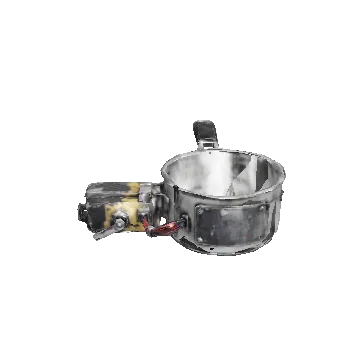
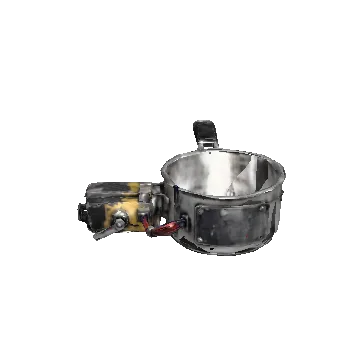
反打 lights 冲 after a 完美; brighter 做好了 and 角色库 3D
- sim: control() reports counterIn (read-only, how long a 冲 pressed now still meets countering()); COUNTER_CUE_LIT .7.
  No numbers, steps or replays change.
- 冲 lights up and reads 「反打」 while counterIn >= COUNTER_CUE_LIT, all three stages and both sides of 一机双人.
  test/position-combat/counter-cue.test.mjs: pressed at the first and last lit step it lands as the counter; added to CI.
- Turntables: lighter hemisphere plus a soft front light, drawn with Neutral tone mapping so colours stay those of the
  picture; 做好了 3D pane on a light grey; stills regenerated. Battle lighting untouched.

Changed region(s): [[0.2139, 0.3361, 0.7944, 0.7333]]

diff --git a/web/src/main.js b/web/src/main.js
@@ -1,6 +1,6 @@
 import * as THREE from 'three';
 import {loadCatalog, registerItems} from '../../sim/index.js';
-import {simulateV3, createV3Match, loadV3Rules, mountExtents, openingDistance, warmEngine, POSITION_COMBAT_RULES, PLANAR_JUDGE_COMBAT_OPTIONS, MATERIAL_JUDGE_COMBAT_OPTIONS, PVP_COMBAT_OPTIONS} from '../../sim/v3.js';
+import {simulateV3, createV3Match, loadV3Rules, mountExtents, openingDistance, warmEngine, POSITION_COMBAT_RULES, PLANAR_JUDGE_COMBAT_OPTIONS, MATERIAL_JUDGE_COMBAT_OPTIONS, PVP_COMBAT_OPTIONS, COUNTER_CUE_LIT} from '../../sim/v3.js';
 import ladderJson from '../../data/foes.json';
 import {loadModels, prefetchModels, pictureUrl, stillUrl, outlinePath, itemThumbnail} from './models.js';
 import {LiveTurns} from './livecards.js';
@@ -1875,6 +1875,7 @@ async function main() {
   function replay_(btn, cls) { btn.classList.remove(cls); void btn.offsetWidth; btn.classList.add(cls); }
   for (const [side, pad] of pads.entries()) for (const [btn, action] of [[pad.dash, 'dash'], [pad.block, 'block']]) {
     btn.left = btn.querySelector('.left');
+    btn.word = btn.querySelector('span');
     // Real press state on touchdown: the button goes down and lights up until the finger lifts. Each button keeps its own
     // fingers by pointerId (一机双人: four thumbs at once), so one lifting never lets go of another's press.
     const fingers = new Set();
@@ -1975,6 +1976,12 @@ async function main() {
       // Back from cooling: one pop so the thumb knows without looking twice.
       if (state === 'ready' && (btn.dataset.state === 'cooling' || btn.dataset.state === 'locked')) replay_(btn, 'pop');
       btn.dataset.state = state;
+    }
+    // 反打 (Elara b32bfd9a ①): 冲 lights up and says so while a 冲 pressed now lands as the counter.
+    const counter = !live.done && (c.counterIn ?? 0) + 1e-9 >= COUNTER_CUE_LIT && c.dashIn <= rules.dt + 1e-9 && !c.charging && !c.dashing && !(c.stunIn > 0);
+    if (pad.dash.classList.contains('counter') !== counter) {
+      pad.dash.classList.toggle('counter', counter);
+      pad.dash.word.textContent = counter ? '反打' : '冲';
     }
   }
   // 一机双人's bench: 1P's 下一步 hands it to 2P, whose 开打 starts the match.
@@ -2131,7 +2138,7 @@ async function main() {
     cam: CAM,
     start,
     music: () => sfx._music(),
-    events: () => replay?.events.filter(e => e.type !== 'contact' && e.type !== 'recoil').map(e => ({t: e.t, type: e.type, role: e.role, target: e.target, targetPart: e.targetPart, damage: e.damage, side: e.side, phase: e.phase, outcome: e.outcome})) ?? []
+    events: () => replay?.events.filter(e => e.type !== 'contact' && e.type !== 'recoil').map(e => ({t: e.t, type: e.type, role: e.role, attacker: e.attacker, dash: e.dash, target: e.target, targetPart: e.targetPart, damage: e.damage, side: e.side, phase: e.phase, outcome: e.outcome})) ?? []
   };
 
   // ---------- loop ----------

diff --git a/web/src/livecards.js b/web/src/livecards.js
@@ -20,6 +20,14 @@ const TURN = 6; // seconds per turn, as the strips had
 const angle = (rig, turns) => rig.swing ? rig.swing * Math.cos(turns * Math.PI * 2) : turns * Math.PI * 2;
 const FADE = 0.4; // seconds the model takes to fade in over its still (style.css); it holds the still's angle meanwhile
 const reduced = matchMedia('(prefers-reduced-motion: reduce)');
+// The turntables' tone mapping: Khronos PBR Neutral keeps a model's hues and brightness where the stage's ACES greys and
+// darkens them (Elara b32bfd9a ③). Set only while one is drawn; the stage keeps its own.
+const TURN_TONE = {toneMapping: THREE.NeutralToneMapping, toneMappingExposure: 0.85};
+function turnTone(r) {
+  const was = {toneMapping: r.toneMapping, toneMappingExposure: r.toneMappingExposure};
+  Object.assign(r, TURN_TONE);
+  return () => Object.assign(r, was);
+}
 
 export class LiveTurns {
   constructor(renderer, environment) {
@@ -74,7 +82,8 @@ export class LiveTurns {
       ctx.drawImage(gl, 0, gl.height - size, size, size, 0, 0, size, size);
       return ctx.getImageData(0, 0, size, size);
     };
-    const black = over(0x000000), white = over(0xffffff).data, d = black.data;
+    const untone = turnTone(r), black = over(0x000000), white = over(0xffffff).data, d = black.data;
+    untone();
     r.setViewport(saved.viewport);
     r.setScissor(saved.scissor);
     r.setScissorTest(saved.scissorTest);
@@ -105,7 +114,7 @@ export class LiveTurns {
       if (!size) continue;
       // Both sides: a fresh canvas is 300×150, so a 150 px card at 2× would keep its height (crops the model).
       if (v.canvas.width !== size || v.canvas.height !== size) v.canvas.width = v.canvas.height = size;
-      saved ??= {target: r.getRenderTarget(), viewport: r.getViewport(new THREE.Vector4()), scissor: r.getScissor(new THREE.Vector4()), scissorTest: r.getScissorTest(), color: r.getClearColor(new THREE.Color()), alpha: r.getClearAlpha()};
+      saved ??= {target: r.getRenderTarget(), viewport: r.getViewport(new THREE.Vector4()), scissor: r.getScissor(new THREE.Vector4()), scissorTest: r.getScissorTest(), color: r.getClearColor(new THREE.Color()), alpha: r.getClearAlpha(), untone: turnTone(r)};
       r.setRenderTarget(null);
       r.setViewport(0, 0, size / pr, size / pr);
       r.setScissor(0, 0, size / pr, size / pr);
@@ -127,6 +136,7 @@ export class LiveTurns {
     r.setScissor(saved.scissor);
     r.setScissorTest(saved.scissorTest);
     r.setClearColor(saved.color, saved.alpha);
+    saved.untone();
   }
 }
 

diff --git a/sim/v3.js b/sim/v3.js
@@ -103,6 +103,11 @@ export const PVP_COMBAT_OPTIONS=Object.freeze({
  ...ROUND_JUDGE_COMBAT_OPTIONS,
  combatRules:Object.freeze({...ROUND_JUDGE_COMBAT_OPTIONS.combatRules,pvp:Object.freeze({charge:.22,pace:1.5})})
 });
+// 反打 (Elara b32bfd9a ①): the 冲 button lights as 「反打」 while control().counterIn is at least this (s). The counter
+// window runs the whole stun (guardStun, 1 s), but the foe flies on all that time: in 6,080 scripted tries after a 完美 on
+// the three stages and in 一机双人, no 冲 pressed with under 0.65 s left reached it in time. The 0.05 over that is for the
+// frame between the light and the tap. Lit, it lands as the counter (test/position-combat/counter-cue.test.mjs).
+export const COUNTER_CUE_LIT=.7;
 export const MATERIAL_JUDGE_COMBAT_OPTIONS=Object.freeze({
  ...ROUND_JUDGE_COMBAT_OPTIONS,
  combatRules:Object.freeze({...ROUND_JUDGE_COMBAT_OPTIONS.combatRules,
@@ -1058,7 +1063,9 @@ export async function createV3Match({fighters:definitions,mode='A',seed,manual=n
   /** Queue a press for an 'input' side; it is taken at the start of the next step (or ignored on cooldown). */
   press(side,action){if(!M||manual.sides[side]!=='input'||!ACTIONS.includes(action))throw Error('press needs a manual input side and dash | block');if(!done)queued[side].push(action);},
   /** Button state for a side: seconds until ready, and what it is doing now. */
-  control(side){const k=fs[side].ctl,f=fs[side];return {dashIn:Math.max(0,Math.max(k.dashReady,k.dashLockedUntil)-step)*r.dt,blockIn:Math.max(0,k.blockReady-step)*r.dt,charging:charging(f),dashing:dashing(f),shield:shielded(f),...(impact&&{stunIn:Math.max(0,k.stunUntil-step+1)*r.dt,dashLockIn:Math.max(0,k.dashLockedUntil-step)*r.dt})};},
+  control(side){const k=fs[side].ctl,f=fs[side];return {dashIn:Math.max(0,Math.max(k.dashReady,k.dashLockedUntil)-step)*r.dt,blockIn:Math.max(0,k.blockReady-step)*r.dt,charging:charging(f),dashing:dashing(f),shield:shielded(f),...(impact&&{stunIn:Math.max(0,k.stunUntil-step+1)*r.dt,dashLockIn:Math.max(0,k.dashLockedUntil-step)*r.dt}),
+   // How long a 冲 pressed now (taken next step) still meets countering(): the foe stunned by our 完美 and the window open.
+   ...(round&&{counterIn:Math.max(0,Math.min(k.counterUntilRound??-Infinity,fs[1-side].ctl.stunUntil)-step)*r.dt})};},
   advance,
   result(){if(!done)throw Error('match not finished');return result;},
   /** Abandon a match before its end (frees the physics world). */

diff --git a/web/src/models.js b/web/src/models.js
@@ -187,10 +187,15 @@ export function turnRig(itemId, environment, zoom = 1) {
   if (!src) return null;
   const scene = new THREE.Scene();
   scene.environment = environment ?? null;
-  scene.add(new THREE.HemisphereLight(0xdfe8ff, 0x20242e, 1.6));
-  const keyLight = new THREE.DirectionalLight(0xffffff, 2.2);
+  // Lit brighter than the stage (Elara b32bfd9a ③: dark and dirty beside the styled picture it fades in over): a
+  // lighter sky and ground, and a soft light from the camera's side so the front the card shows is never in shade.
+  // livecards.js draws it with TURN_TONE, not the stage's ACES, so its colours stay those of the picture.
+  scene.add(new THREE.HemisphereLight(0xf4f6ff, 0x5d5a55, 1.5));
+  const keyLight = new THREE.DirectionalLight(0xffffff, 2.0);
   keyLight.position.set(2, 3, 2.5);
-  scene.add(keyLight);
+  const frontLight = new THREE.DirectionalLight(0xfff7ee, 1.3);
+  frontLight.position.set(-0.4, 0.5, 1);
+  scene.add(keyLight, frontLight);
   const obj = src.clone(true), spin = new THREE.Group(), {pose, yaw, swing} = poses.get(itemId);
   obj.applyMatrix4(pose);
   spin.add(obj);

diff --git a/web/src/terminal.css b/web/src/terminal.css
@@ -410,6 +410,9 @@ button:focus-visible,summary:focus-visible { outline:2px solid var(--c1);outline
 /* 老龟's hint in two lines, 它专防先冲 over what to do, so it is never wider than the phone (Castor 9329c4e0). */
 #fx .hilite.nudge.two { flex-direction:column;align-items:center;gap:0;white-space:pre-line;text-align:center;line-height:1.35;padding:4px 12px 5px; }
 :is(#pad,#pad2) .pad.dash.nudge:not(.deny):not(.pop):not(.down) { animation:padNudge .8s ease-in-out infinite; }
+/* 反打 (Elara b32bfd9a ①): lit for about a third of a second, so all at once, no fade: brighter, a size up, a white-gold
+   edge and glow. */
+:is(#pad,#pad2) .pad.dash.counter:not(.deny):not(.down) { z-index:1; transform:scale(1.08); filter:brightness(1.3) saturate(1.2) drop-shadow(0 0 14px #ffe9a8); outline:3px solid #fff4cf; outline-offset:1px; }
 @keyframes padNudge { 0%,100% { transform:scale(1);filter:brightness(1); }
   45% { transform:scale(1.07);filter:brightness(1.3) drop-shadow(0 0 12px #e7b354cc); } }
 

diff --git a/web/src/style.css b/web/src/style.css
@@ -764,7 +764,7 @@ svg { width: 18px; height: 18px; fill: none; stroke: currentColor; stroke-width:
    column and a square pane its (square) canvas fills edge to edge (Elara 69a1c60d); the photo takes the same height. */
 .spair { flex: none; display: grid; grid-template-columns: 2fr 3fr; gap: 10px; margin: 12px 14px 0; }
 .spair figure { margin: 0; display: flex; flex-direction: column; gap: 6px; min-width: 0; }
-.spair .pane { position: relative; display: block; border-radius: 12px; overflow: hidden; background: rgba(255, 255, 255, 0.04); }
+.spair .pane { position: relative; display: block; border-radius: 12px; overflow: hidden; background: #c4c6c0; }
 .spair figure:first-child .pane { flex: 1; }
 .spair figure:last-child .pane { width: min(100%, 42vh); aspect-ratio: 1; align-self: center; }
 .spair .pane::after { content: ""; position: absolute; inset: 0; border-radius: 12px; box-shadow: inset 0 0 0 1px var(--line); pointer-events: none; }
